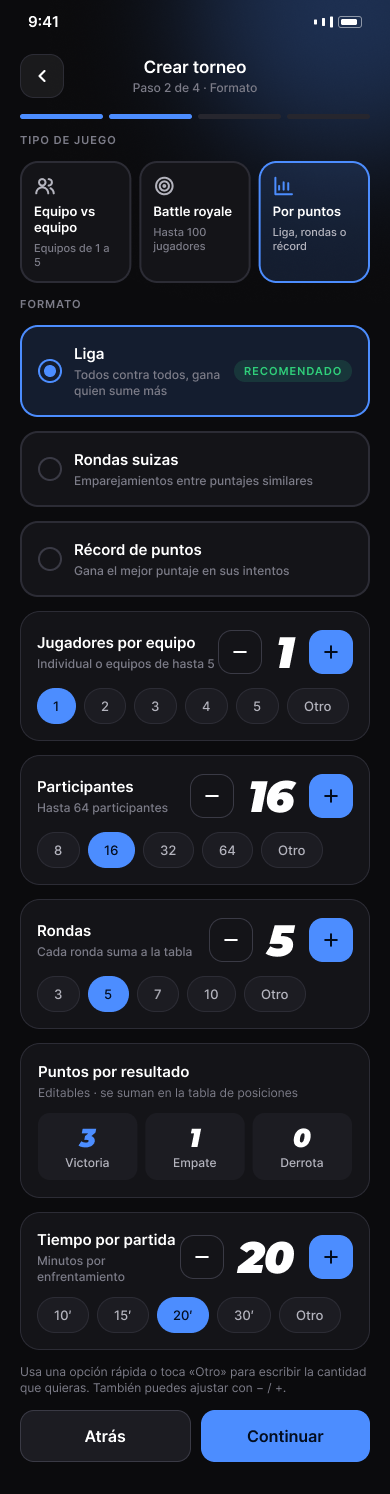
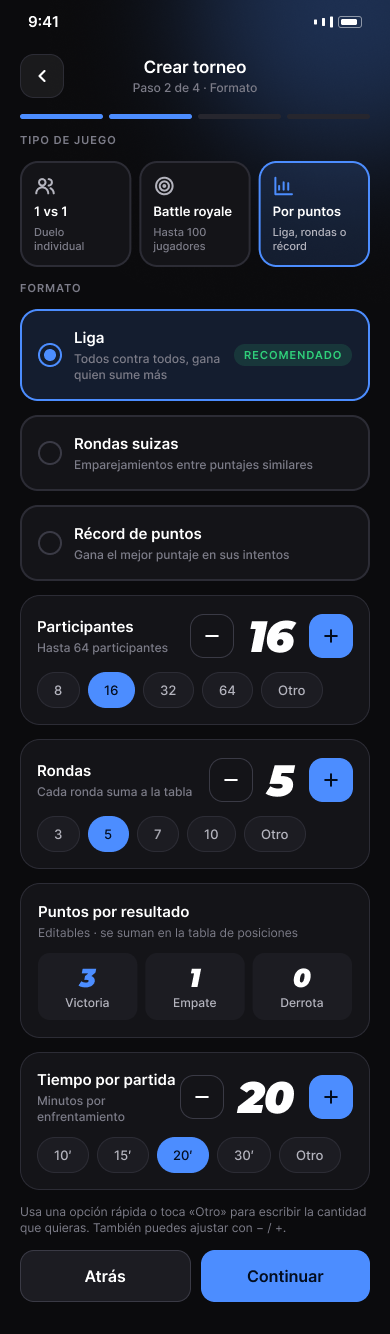
Reescribe la spec de organizador-panel-y-creacion con las pantallas nuevas
Pantallas re-exportadas sin equipos ni escuadras, tipo 1 vs 1 y premios en
texto libre. El organizador elige el tipo de torneo para cualquier juego y
el Nivel 1 llega a 32 jugadores o participantes en los tres tipos.

diff --git a/specs/organizador-panel-y-creacion/spec.md b/specs/organizador-panel-y-creacion/spec.md
@@ -8,7 +8,7 @@ Carpeta de pantallas: `design/flujos/organizador-panel-y-creacion/`
 
 **Para qué:** crear y publicar un torneo, y tener a mano todos los suyos.
 - **Panel (O01):** sus números (en curso, inscritos, finalizados), el acceso a «Crear un nuevo torneo» y su lista de torneos (Todos, En curso y Borradores).
-- **Crear torneo en 4 pasos (O02 a O05):** información, formato y cupos, fecha y reglas, y revisar y publicar. El paso 2 tiene una pantalla por tipo de juego (O03, O03b y O03c) y tres pantallas de cupos personalizados.
+- **Crear torneo en 4 pasos (O02 a O05):** información, formato y cupos, fecha y reglas, y revisar y publicar. El paso 2 tiene una pantalla por tipo de torneo (O03, O03b y O03c) y tres pantallas de cantidades personalizadas.
 - **Torneo publicado (O06):** confirmación, enlace para compartir y accesos a gestionar o a ver el torneo como jugador.
 
 **Por qué importa:** sin torneos publicados no hay nada que el jugador encuentre: es la oferta del producto. La promesa es «4 pasos · menos de 5 minutos. Publícalo y compártelo», es decir, bajar la barrera para organizar. Las entrevistas dicen que más control significa más torneos.
@@ -16,14 +16,14 @@ Carpeta de pantallas: `design/flujos/organizador-panel-y-creacion/`
 **Resultado:** el torneo queda publicado en Explorar, con un enlace para compartir, listo para recibir inscripciones.
 
 **Alcance del MVP:**
-- La inscripción es gratuita.
-- El **tipo de juego es fijo por juego**: el organizador elige el juego y el tipo (Equipo vs equipo, Battle royale o Por puntos) viene determinado.
-- El **Nivel 1 puede crear torneos de hasta 32 cupos**. Subir de nivel desbloquea 64 y más.
+- La inscripción es gratuita y los torneos son **solo de jugadores individuales**: no hay equipos ni escuadras.
+- **El organizador elige el tipo de torneo** (1 vs 1, Battle royale o Por puntos) para cualquier juego.
+- El **Nivel 1 puede crear torneos de hasta 32** jugadores o participantes, en los tres tipos. Subir de nivel desbloquea 64 y más.
 - Para publicar hay que completar los 4 pasos.
 - Al abrir un borrador, el asistente retoma en el paso donde se quedó.
-- «Premios» es un texto libre. Los puntos de ranking los calcula el producto (no se escriben).
+- «Premios» es un texto libre. Los puntos de ranking los calcula el producto y no se escriben.
 
-**Caso de ejemplo para el paso a paso:** StreamerNova (Nivel 1) crea la **Copa Relámpago Bogotá** (EA FC 25, sábado 4 de octubre, 7:00 pm, gratis). Desde el panel toca «Empezar», recorre los 4 pasos, publica, comparte el enlace y va a gestionar.
+**Caso de ejemplo para el paso a paso:** StreamerNova (Nivel 1) crea la **Copa Relámpago Bogotá** (EA FC 25, 1 vs 1, eliminación directa, sábado 4 de octubre, 7:00 pm, gratis). Desde el panel toca «Empezar», recorre los 4 pasos, publica, comparte el enlace y va a gestionar.
 
 ## Pantallas
 
@@ -31,7 +31,7 @@ Carpeta de pantallas: `design/flujos/organizador-panel-y-creacion/`
 |---|---|---|
 | O01 | Panel del organizador | Pestaña raíz del organizador. Números, acceso a crear y lista de torneos. |
 | O02 | Crear · Información | Paso 1 de 4: portada, juego, nombre y descripción. |
-| O03 | Crear · Formato · Equipo vs equipo | Paso 2 de 4 para el tipo Equipo vs equipo. |
+| O03 | Crear · Formato (1 vs 1) | Paso 2 de 4 para el tipo 1 vs 1. En el archivo se llama «O03 · Crear · Formato · Equipo vs equipo». |
 | O03b | Crear · Formato · Battle royale | Paso 2 de 4 para el tipo Battle royale. |
 | O03c | Crear · Formato · Por puntos | Paso 2 de 4 para el tipo Por puntos. |
 | EvE · O1b | Cupos personalizados | Variante de O03 con «Otro» elegido en los cupos. |
@@ -58,29 +58,27 @@ Carpeta de pantallas: `design/flujos/organizador-panel-y-creacion/`
 - Botón cerrar (X), título «Crear torneo» y subtítulo «Paso 1 de 4 · Información», con una barra de 4 pasos.
 - Zona punteada «Sube la portada» («Recomendado 1200×750 · JPG o PNG»).
 - Sección «Juego»: 6 tarjetas con portada (EA FC 25, Valorant, CS2, League of Legends, Fortnite y Rocket League); EA FC 25 está elegido, con un check.
-- Nota: «EA FC 25 es Equipo vs equipo. En el siguiente paso puedes cambiar el tipo: Equipo vs equipo, Battle royale o Por puntos.»
+- Nota: «EA FC 25 es 1 vs 1. En el siguiente paso puedes cambiar el tipo: 1 vs 1, Battle royale o Por puntos.»
 - Campo «Nombre del torneo» («Copa Relámpago Bogotá», contador «21/60 caracteres»).
 - Campo «Descripción» («Torneo 1v1 de FC 25 para la comunidad de Bogotá. Premios al top 3.», ayuda «Cuenta qué hace especial tu torneo»).
 - Botones «Continuar» y «Guardar borrador».
 
-**O03 · Crear · Formato · Equipo vs equipo**
+**O03 · Crear · Formato (1 vs 1)**
 - Barra superior con volver y «Crear torneo · Paso 2 de 4 · Formato».
-- «TIPO DE JUEGO»: tres tarjetas (Equipo vs equipo «Equipos de 1 a 5», Battle royale «Hasta 100 jugadores» y Por puntos «Liga, rondas o récord»); activa la de Equipo vs equipo.
+- «TIPO DE JUEGO»: tres tarjetas: «1 vs 1» («Duelo individual»), «Battle royale» («Hasta 100 jugadores») y «Por puntos» («Liga, rondas o récord»); activa la de 1 vs 1.
 - «FORMATO»: tres opciones: «Eliminación directa» (RECOMENDADO, «Quien pierde queda fuera»), «Doble eliminación» («Segunda oportunidad por llave inferior») y «Fase de grupos» («Todos contra todos y luego llaves»).
-- «Jugadores por equipo» (contador con − y +, valor 3, «3 vs 3 · de 1 a 5 por equipo») y chips 1, 2, 3, 4, 5 y Otro.
-- «Cupos» («Equipos · potencias de 2», valor 16) y chips 8, 16, 32, 64 y Otro.
+- «Cupos» («Jugadores · potencias de 2», valor 16, contador con − y +) y chips 8, 16, 32, 64 y Otro.
 - «Tiempo por partida» («Minutos · el reloj corre al iniciar», valor 30) y chips 15', 30', 45', 60' y Otro.
 - Nota: «Usa una opción rápida o toca «Otro» para escribir la cantidad que quieras. También puedes ajustar con − / +.»
 - Botones «Atrás» y «Continuar».
 
 **EvE · O1b · Cupos personalizados**
 - Igual que O03, con «Otro» elegido en los cupos (valor 24).
-- Aparece el campo «Cantidad personalizada» («24 equipos») y la ayuda «Entre 2 y 128. Si no es potencia de 2, se juega una ronda previa para completar el cuadro.»
+- Aparece el campo «Cantidad personalizada» («24 jugadores») y la ayuda «Entre 2 y 128. Si no es potencia de 2, se juega una ronda previa para completar el cuadro.»
 
 **O03b · Crear · Formato · Battle royale**
 - Misma estructura de O03, con Battle royale como tipo activo.
 - «FORMATO»: «Partidas acumuladas» (RECOMENDADO, «Los puntos se suman entre varias partidas»), «Clasificación por lobbies» («Los mejores de cada lobby pasan a la final») y «Partida única» («Una sola partida define al campeón»).
-- «Jugadores por escuadra» («Solo, dúo, trío o escuadra», valor 4) y chips Solo, Dúo, Trío, Escuadra y Otro.
 - «Jugadores» («Máximo 100 jugadores por partida», valor 100) y chips 25, 50, 75, 100 y Otro.
 - «Número de partidas» («Los puntos se suman entre partidas», valor 3) y chips 1, 3, 5, 6 y Otro.
 - «Tiempo por partida» («Minutos · la zona cierra al final», valor 25) y chips 15', 20', 25', 30' y Otro.
@@ -93,7 +91,6 @@ Carpeta de pantallas: `design/flujos/organizador-panel-y-creacion/`
 **O03c · Crear · Formato · Por puntos**
 - Misma estructura de O03, con Por puntos como tipo activo.
 - «FORMATO»: «Liga» (RECOMENDADO, «Todos contra todos, gana quien sume más»), «Rondas suizas» («Emparejamientos entre puntajes similares») y «Récord de puntos» («Gana el mejor puntaje en sus intentos»).
-- «Jugadores por equipo» («Individual o equipos de hasta 5», valor 1) y chips 1, 2, 3, 4, 5 y Otro.
 - «Participantes» («Hasta 64 participantes», valor 16) y chips 8, 16, 32, 64 y Otro.
 - «Rondas» («Cada ronda suma a la tabla», valor 5) y chips 3, 5, 7, 10 y Otro.
 - «Puntos por resultado» («Editables · se suman en la tabla de posiciones»): Victoria 3, Empate 1 y Derrota 0.
@@ -109,13 +106,13 @@ Carpeta de pantallas: `design/flujos/organizador-panel-y-creacion/`
 - «Cierre de inscripciones» («Sáb 4 Oct · 6:00 pm») con la ayuda «Después de esta hora nadie más puede inscribirse.»
 - Interruptor «Check-in obligatorio» («30 min antes del inicio», activo).
 - «REGLAS»: tres casillas: «Reporte con captura del marcador» (marcada), «Desconexión: se repite el partido una vez» (marcada) y «Permitir suplentes» (sin marcar).
-- Campo «Premios (opcional)» («Trofeo + 300 pts de ranking»).
+- Campo «Premios (opcional)» («Trofeo para el campeón») con la ayuda «Los puntos de ranking se calculan solos según el puesto.»
 - Botones «Atrás» y «Continuar».
 
 **O05 · Crear · Revisión y publicar**
 - Barra superior con volver y «Revisar y publicar · Paso 4 de 4», y el texto «Así lo verán los jugadores en Explorar.»
 - Vista previa de la tarjeta del torneo: etiqueta ABIERTO, nombre «COPA RELÁMPAGO BOGOTÁ», fecha, «24/32 cupos» y un botón «Inscribirme».
-- Resumen con un lápiz de edición en cada bloque: «Formato · Equipo vs equipo · Eliminación directa», «Cupos · 16 equipos · 3 vs 3», «Fecha · Sáb 4 Oct · 7:00 pm», «Tiempo por partida · 30 minutos» y «Check-in · 30 min antes».
+- Resumen con un lápiz de edición en cada bloque: «Formato · 1 vs 1 · Eliminación directa», «Cupos · 16 jugadores · 1 vs 1», «Fecha · Sáb 4 Oct · 7:00 pm», «Tiempo por partida · 30 minutos» y «Check-in · 30 min antes».
 - Aviso verde «Inscripción gratuita»: «Se publicará en Explorar y podrás compartir el enlace.»
 - Botones «Publicar torneo» (principal) y «Guardar como borrador».
 
@@ -139,18 +136,18 @@ Caso: StreamerNova crea la Copa Relámpago Bogotá.
 ### B. Paso 1: información
 
 5. En **Crear · Información (O02)**, sube la portada (recomendado 1200×750, JPG o PNG).
-6. Elige el juego (EA FC 25). El juego determina el tipo de torneo: el tipo es fijo por juego y el organizador no lo cambia.
+6. Elige el juego (EA FC 25). El juego no fija el tipo de torneo: el organizador lo elige en el paso 2.
 7. Escribe el nombre (máximo 60 caracteres) y la descripción.
 8. Toca «Continuar», o «Guardar borrador». Con la X cierra el asistente: se abre un diálogo que pregunta si quiere guardar el borrador o descartar los cambios (el diálogo falta en Figma).
 
 ### C. Paso 2: formato y cupos
 
-9. Según el tipo del juego, se abre una de tres pantallas de formato (con la barra de 4 pasos en el paso 2):
-   - **Equipo vs equipo (O03):** elige el formato (en el MVP solo entra la eliminación directa), los jugadores por equipo (de 1 a 5), los cupos (8, 16, 32 o 64, o «Otro») y el tiempo por partida.
-   - **Battle royale (O03b):** elige el formato (partidas acumuladas, clasificación por lobbies o partida única), los jugadores por escuadra (en el MVP se juega Solo), los jugadores (hasta 100), el número de partidas, el tiempo por partida y si da puntos por eliminación.
+9. En el paso 2 elige el **tipo de torneo** entre las tres tarjetas (1 vs 1, Battle royale o Por puntos). Según el tipo, la pantalla muestra una de tres versiones (con la barra de 4 pasos en el paso 2):
+   - **1 vs 1 (O03):** elige el formato (en el MVP solo entra la eliminación directa), los cupos (8, 16, 32 o 64, o «Otro») y el tiempo por partida.
+   - **Battle royale (O03b):** elige el formato (partidas acumuladas, clasificación por lobbies o partida única), los jugadores (hasta 100), el número de partidas, el tiempo por partida y si da puntos por eliminación.
    - **Por puntos (O03c):** elige el formato (liga, rondas suizas o récord de puntos), los participantes (hasta 64, o «Otro»), las rondas, los puntos por resultado (victoria, empate y derrota) y el tiempo por partida.
 10. Con los chips elige una cantidad rápida, o con el contador − / +. Con **«Otro»** aparece un campo de cantidad personalizada (EvE · O1b, BR · O1b y PTS · O1b), con su rango.
-11. El Nivel 1 puede elegir hasta 32 cupos. Las opciones por encima aparecen bloqueadas hasta subir de nivel (ese estado falta en Figma).
+11. El Nivel 1 puede elegir hasta 32 jugadores o participantes, en los tres tipos. Las opciones por encima aparecen bloqueadas hasta subir de nivel (ese estado falta en Figma).
 12. Toca «Continuar» (o «Atrás» para volver al paso 1).
 
 ### D. Paso 3: fecha y reglas
@@ -158,7 +155,7 @@ Caso: StreamerNova crea la Copa Relámpago Bogotá.
 13. En **Crear · Fecha y reglas (O04)** elige la fecha y la hora (Sáb 4 Oct, 7:00 pm) y el cierre de inscripciones (6:00 pm). Después de esa hora nadie más puede inscribirse.
 14. Deja activo el check-in obligatorio (30 min antes del inicio).
 15. Elige las reglas: reporte con captura del marcador, desconexión (se repite el partido una vez) y si se permiten suplentes.
-16. Escribe el premio, que es un texto libre (por ejemplo, «Trofeo»). Los puntos de ranking los calcula el producto y no se escriben.
+16. Escribe el premio, que es un texto libre (por ejemplo, «Trofeo para el campeón»). Los puntos de ranking se calculan solos según el puesto y no se escriben.
 17. Toca «Continuar» o «Atrás».
 
 ### E. Paso 4: revisar y publicar
@@ -203,9 +200,10 @@ Caso: StreamerNova crea la Copa Relámpago Bogotá.
 ### De los campos del paso 2
 | Estado | Qué muestra |
 |---|---|
+| Tipo elegido | Tarjeta del tipo resaltada (1 vs 1, Battle royale o Por puntos). |
 | Opción rápida elegida | Chip activo. |
 | «Otro» elegido | Chip «Otro» activo y un campo «Cantidad personalizada», con su rango. |
-| Cupos bloqueados por nivel | Las opciones por encima de 32 cupos se ven bloqueadas para el Nivel 1 (falta en Figma). |
+| Cantidad bloqueada por nivel | Las opciones por encima de 32 se ven bloqueadas para el Nivel 1 (falta en Figma). |
 
 ### De la publicación
 | Estado | Qué muestra |
@@ -215,7 +213,7 @@ Caso: StreamerNova crea la Copa Relámpago Bogotá.
 | Borrador | «Guardar borrador» / «Guardar como borrador» guardan sin publicar. |
 
 ### Estados que las pantallas no muestran
-- Errores de validación en cada paso (campo vacío, cupo bloqueado, fecha en el pasado, cierre de inscripciones posterior al inicio).
+- Errores de validación en cada paso (campo vacío, cantidad bloqueada, fecha en el pasado, cierre de inscripciones posterior al inicio).
 - Botón «Continuar» deshabilitado mientras falte un dato.
 - Diálogo al cerrar con la X, y diálogo al borrar un borrador.
 - Las pestañas En curso y Borradores del panel, y el panel sin torneos (ver «estado-vacio-sin-torneos», V5).
@@ -229,7 +227,8 @@ Caso: StreamerNova crea la Copa Relámpago Bogotá.
 - **Ir a gestionar:** abre el Resumen del torneo (flujo «organizador-gestion-del-torneo», O07), con el check-in, los inscritos y los anuncios.
 - **Ver como jugador:** abre el Detalle del torneo (J09), como lo ve un jugador.
 - **Borrador:** queda en la pestaña Borradores del panel, sin aparecer en Explorar, hasta que se retome y se publique.
-- **Nivel:** el nivel del organizador determina cuántos cupos puede crear (el Nivel 1, hasta 32). Sube por torneos finalizados con buena valoración (flujo «organizador-cierre-datos-y-perfil»).
+- **Nivel:** el nivel del organizador determina cuántos jugadores puede reunir (el Nivel 1, hasta 32). Sube por torneos finalizados con buena valoración (flujo «organizador-cierre-datos-y-perfil»).
+- **Puntos de ranking:** al cerrar el torneo se calculan con la regla única 100 × (N − puesto + 1) / N (flujos de los brackets).
 - **Panel:** el torneo publicado aparece en «Mis torneos» como ABIERTO y suma a las cifras del panel.
 
 ## Datos que usa
@@ -242,16 +241,17 @@ Datos que esta spec lee o escribe, como puente hacia Supabase. Los nombres son p
 - Nombre, avatar, modo y nivel.
 - Torneos: en curso, finalizados e inscritos totales.
 - Lista de torneos (juego, nombre, estado, fecha, cupos e inscritos).
-- Límite de cupos según su nivel (Nivel 1: hasta 32).
+- Límite de jugadores según su nivel (Nivel 1: hasta 32).
 
 **Catálogo de juegos**
-- Nombre, portada y el tipo de torneo de cada juego (Equipo vs equipo, Battle royale o Por puntos).
+- Nombre y portada de cada juego.
 
 ### Se escribe
 
 **Torneo**
 - Portada, juego, nombre (hasta 60 caracteres) y descripción.
-- Tipo, formato y cupos: jugadores por equipo, equipos o participantes, jugadores por escuadra, partidas, rondas y puntos por resultado (en Por puntos), y puntos por eliminación (en Battle royale).
+- Tipo (1 vs 1, Battle royale o Por puntos) y formato.
+- Cupos o jugadores o participantes, partidas, rondas, puntos por resultado (en Por puntos) y puntos por eliminación (en Battle royale).
 - Tiempo por partida.
 - Fecha, hora y cierre de inscripciones.
 - Check-in obligatorio (30 min antes del inicio).
@@ -267,17 +267,16 @@ Datos que esta spec lee o escribe, como puente hacia Supabase. Los nombres son p
 
 ### Reglas que dicen las pantallas
 - El asistente tiene 4 pasos: información, formato y cupos, fecha y reglas, revisar y publicar.
-- El tipo de torneo es fijo por juego.
+- El organizador elige el tipo de torneo (1 vs 1, Battle royale o Por puntos) para cualquier juego.
 - Un torneo se publica solo con los 4 pasos completos.
 - Al cerrar el asistente con la X se pregunta si guardar un borrador o descartar los cambios.
 - Al abrir un borrador, el asistente retoma en el paso donde se quedó.
-- El Nivel 1 puede crear torneos de hasta 32 cupos.
-- Los cupos de Equipo vs equipo son potencias de 2; si no lo son, se juega una ronda previa.
-- Equipo vs equipo admite de 2 a 128 equipos, Battle royale de 2 a 100 jugadores por partida y Por puntos de 2 a 128 participantes (con un número impar, uno descansa cada ronda).
-- Equipo vs equipo admite de 1 a 5 jugadores por equipo.
+- El Nivel 1 puede crear torneos de hasta 32 jugadores o participantes, en los tres tipos.
+- Los cupos de 1 vs 1 son potencias de 2; si no lo son, se juega una ronda previa para completar el cuadro.
+- 1 vs 1 admite de 2 a 128 jugadores, Battle royale de 2 a 100 jugadores por partida y Por puntos de 2 a 128 participantes (con un número impar, uno descansa cada ronda).
 - Después de la hora de cierre de las inscripciones nadie más puede inscribirse.
 - El check-in es obligatorio, y empieza 30 min antes del inicio.
-- Los puntos de ranking los calcula el producto y no se escriben. «Premios» es un texto libre.
+- Los puntos de ranking los calcula el producto («se calculan solos según el puesto»). «Premios» es un texto libre.
 - La inscripción es gratuita.
 
 ## Fuera de alcance
@@ -285,56 +284,50 @@ Datos que esta spec lee o escribe, como puente hacia Supabase. Los nombres son p
 Esta spec no cubre lo siguiente, que tiene su propia spec:
 
 - **Gestionar el torneo publicado** (O07 a O14), a donde lleva «Ir a gestionar», en «organizador-gestion-del-torneo».
-- **Los brackets y el cierre** (O12, O13, O15 y las vistas de las otras modalidades), en «eliminacion-directa-bracket», «battle-royale-bracket» y «bracket-por-puntos».
+- **Los brackets y el cierre** (O12, O13, O15 y las vistas de las otras modalidades), en «1v1-bracket», «battle-royale-bracket» y «bracket-por-puntos».
 - **Perfil, estadísticas y cancelar** (O16, O17, O18), y el nivel del organizador, en «organizador-cierre-datos-y-perfil».
-- **Lo que ve el jugador:** Detalle del torneo (J09) y Explorar (J07), en «jugador-descubrir-e-inscribirse».
+- **Lo que ve el jugador:** el Detalle del torneo (J09) y Explorar (J07), en «jugador-descubrir-e-inscribirse».
 - **Panel vacío** (V5), en «estado-vacio-sin-torneos».
 - **Registro y modo Organizador** (J03 y J23), en «acceso-y-registro» y «jugador-progreso-y-cuenta».
 
 No entran al MVP, aunque están en el diseño:
-- **Doble eliminación** y **fase de grupos** (opciones de formato de Equipo vs equipo).
-- **Cambiar el tipo de torneo** en el paso 2, que es fijo por juego.
+- **Doble eliminación** y **fase de grupos** (opciones de formato de 1 vs 1).
 - **Cobro de inscripciones:** el UI kit describe un paso con precio y pasarela, y el MVP es gratuito.
 
 ## Preguntas abiertas
 
 **Ajustes pendientes en Figma (ya decididos por el equipo)**
 
-1. **Tipo de juego fijo.** El tipo es fijo por juego y el organizador no lo cambia en el MVP. El paso 2 muestra las tres opciones como si se pudiera elegir, y O02 dice «En el siguiente paso puedes cambiar el tipo». Hay que quitar o deshabilitar el selector y el texto.
-2. **Premios.** Se decidió que «Premios» es un texto libre y que los puntos de ranking son automáticos. Hay que quitar «300 pts de ranking» del ejemplo de O04. Además el campo dice «(opcional)», mientras que para publicar hay que completar los 4 pasos: hay que alinear una cosa con la otra.
-3. **Cerrar con la X.** Se decidió que se pregunta si guardar un borrador o descartar los cambios. Falta ese diálogo en Figma.
-4. **Cupos bloqueados por nivel.** Se decidió que el Nivel 1 llega a 32 cupos. Falta el estado bloqueado de las opciones de 64 o más, el texto de qué hace falta para desbloquearlas, y alinear el texto de O17 («Desbloquea torneos de 64 cupos»).
-5. **Tolerancia de check-in.** En «incidencias-de-partido» se decidió que el organizador define la tolerancia al crear el torneo (10 minutos por defecto). No existe ese campo en el paso 3 (O04).
-6. **Formatos y opciones que no entran.**
-   - Doble eliminación y fase de grupos: hay que quitarlos o deshabilitarlos en O03.
-   - Battle royale: en el MVP se juega Solo, y O03b ofrece dúo, trío y escuadra.
-   - Por puntos: se juega individual, y O03c ofrece equipos de hasta 5.
-   - Hay que quitar o deshabilitar esas opciones.
-7. **Datos de ejemplo que no cuadran.**
-   - La Copa Relámpago es «16 equipos · 3 vs 3» en O05, tiene «24/32 cupos» en la vista previa, «32 cupos» en O06 y una descripción que dice «Torneo 1v1».
+1. **Formatos que no entran.** La doble eliminación y la fase de grupos siguen en O03 y en EvE · O1b, pero no entran al MVP. Hay que quitarlos o deshabilitarlos.
+2. **Cerrar con la X.** Se decidió que se pregunta si guardar un borrador o descartar los cambios. Falta ese diálogo en Figma.
+3. **Cantidades bloqueadas por nivel.** Se decidió que el Nivel 1 llega a 32 en los tres tipos. Falta el estado bloqueado de las opciones mayores, y hay que alinear los valores que muestran las pantallas: Battle royale trae 100 jugadores por defecto, y los chips de 64 en 1 vs 1 y en Por puntos quedarían bloqueados. También hay que alinear el texto de O17 («Desbloquea torneos de 64 cupos»).
+4. **Tolerancia de check-in.** En «incidencias-de-partido» se decidió que el organizador define la tolerancia al crear el torneo (10 minutos por defecto). No existe ese campo en el paso 3 (O04).
+5. **Premios.** El campo dice «(opcional)», pero para publicar hay que completar los 4 pasos. Hay que alinear una cosa con la otra.
+6. **Datos de ejemplo que no cuadran.**
+   - O05 muestra «16 jugadores» en el resumen y «24/32 cupos» en la vista previa de un torneo nuevo, y O06 dice «llenar los 32 cupos».
    - «Grieta Andina» es un BORRADOR con 9/16 inscritos, y los jugadores ya la ven como abierta en Inicio.
    - El panel dice «2 En curso» y la lista muestra uno; O17 dice 7 torneos y O01 dice 7 finalizados.
-8. **Resumen de la revisión.** O05 no resume el nombre, la portada, el juego, las reglas, el cierre de inscripciones ni los premios, y no tiene lápiz para esos bloques. Además la vista previa muestra 24/32 inscritos en un torneo nuevo.
-9. **Reglas.** «Reporte con captura del marcador» (marcada, es decir, obligatoria) contradice a J17, donde la captura es «Opcional». «Desconexión: se repite el partido una vez» y «Permitir suplentes» no tienen pantallas de cómo se aplican.
+7. **Resumen de la revisión.** O05 no resume el nombre, la portada, el juego, el tipo, las reglas, el cierre de inscripciones ni los premios, y no tiene lápiz para esos bloques.
+8. **Nombre del archivo de O03.** El PNG se sigue llamando «O03 · Crear · Formato · Equipo vs equipo», aunque la pantalla ya dice «1 vs 1». Hay que renombrar el frame y re-exportar.
 
 **Pendientes de definir**
 
-10. **Tipo por juego.** No se ve qué tipo corresponde a cada juego (por ejemplo, EA FC 25 es Equipo vs equipo). La pantalla muestra 6 juegos y el UI kit habla de 24.
-11. **Qué cuenta como «completar».** Para publicar hay que completar los 4 pasos, pero no se ve qué es obligatorio en cada uno: ¿se pueden dejar todas las reglas desmarcadas? ¿Y los premios, que dicen «(opcional)»? Tampoco se ven las validaciones (fecha en el pasado, cierre de inscripciones posterior al inicio, nombre repetido) ni el estado del botón «Continuar».
-12. **Borradores.** Falta cuántos puede tener un organizador, cómo se borra uno y cómo se ve en el panel un borrador copiado de otro torneo (que tiene todos los datos pero se abre en el paso donde se quedó). No se ve qué pasa con un borrador cuya fecha ya pasó.
-13. **Panel.** Las pestañas En curso y Borradores no están dibujadas, ni el orden de la lista, ni el destino de «Ver todo» y de tocar una tarjeta (¿Resumen del torneo, O07, o el asistente si es un borrador?).
-14. **Límite de cupos por nivel.** Falta definir cuánto desbloquea cada nivel, y cómo se aplica el límite de 32 a Battle royale (hasta 100 jugadores) y a Por puntos (hasta 64 participantes), que no miden cupos de equipos.
-15. **Cantidades.** Por puntos dice «Hasta 64 participantes» y su cantidad personalizada dice «Entre 2 y 128». No se ve el mínimo ni el máximo de cada chip, ni cómo se avisa al pasarse.
+9. **Reglas sin equipos.** «Permitir suplentes» no tiene sentido sin equipos. ¿Se quita? Además, «Reporte con captura del marcador» (marcada, es decir, obligatoria) contradice a J17, donde la captura es «Opcional», y «Desconexión: se repite el partido una vez» no tiene una pantalla de cómo se aplica.
+10. **Qué cuenta como «completar».** Para publicar hay que completar los 4 pasos, pero no se ve qué es obligatorio en cada uno: ¿se pueden dejar todas las reglas desmarcadas? ¿Y los premios, que dicen «(opcional)»? Tampoco se ven las validaciones (fecha en el pasado, cierre de inscripciones posterior al inicio, nombre repetido) ni el estado del botón «Continuar».
+11. **Borradores.** Falta cuántos puede tener un organizador, cómo se borra uno y cómo se ve en el panel un borrador copiado de otro torneo (que tiene todos los datos pero se abre en el paso donde se quedó). No se ve qué pasa con un borrador cuya fecha ya pasó.
+12. **Panel.** Las pestañas En curso y Borradores no están dibujadas, ni el orden de la lista, ni el destino de «Ver todo» y de tocar una tarjeta (¿Resumen del torneo, O07, o el asistente si es un borrador?).
+13. **Límites por nivel.** Falta definir cuánto desbloquea cada nivel.
+14. **Cantidades.** Por puntos dice «Hasta 64 participantes» y su cantidad personalizada dice «Entre 2 y 128». No se ve el mínimo de cada tipo ni cómo se avisa al pasarse.
+15. **Ronda previa.** En 1 vs 1, un número de jugadores que no es potencia de 2 se completa con una ronda previa. No hay pantalla de cómo se ve esa ronda ni de a quién le toca jugarla.
 16. **Enlace.** El enlace corto sale del nombre del torneo (lt.gg/copa-relampago). ¿Se puede editar? ¿Qué pasa si el nombre ya existe? ¿Qué muestra «Compartir enlace» (hoja del sistema)?
-17. **Publicar.** ¿El torneo aparece de inmediato en Explorar? ¿Se puede despublicar o editar la portada después? Se decidió que solo se editan la fecha y las reglas. ¿Los seguidores del organizador reciben un aviso?
+17. **Publicar.** ¿El torneo aparece de inmediato en Explorar? ¿Se puede despublicar? Se decidió que, después de publicar, solo se editan la fecha y las reglas. ¿Los seguidores del organizador reciben un aviso?
 18. **Torneo destacado.** El Nivel 2 desbloquea «destacados en Explorar». No se ve cómo el organizador marca un torneo como destacado.
-19. **Reglas de modalidad.** ¿«Desconexión» y «Suplentes» aplican a Battle royale y a Por puntos? Los suplentes tienen sentido solo con equipos.
-20. **Puntos del formato.** «Puntos por resultado» (Por puntos) y «Puntos por eliminación» (Battle royale) son puntos del torneo, distintos de los puntos de ranking. No se ve su rango (¿puede ser 5 por victoria?) ni cómo se explican al jugador.
-21. **Pasos del asistente.** El UI kit llama al paso 3 «Fecha, puntos y pago», con un calendario y chips de cierre (30 min, 1 h, 2 h, 1 día antes), y la pantalla tiene un campo de fecha y otro de cierre de inscripciones. Hay que alinear el kit.
-22. **Botón volver.** En los pasos 2 a 4 la flecha de volver regresa al paso anterior. No se ve si conserva los datos del paso.
+19. **Reglas por tipo.** ¿«Desconexión» y «Reporte con captura» aplican a Battle royale y a Por puntos? «Puntos por resultado» (Por puntos) y «Puntos por eliminación» (Battle royale) son puntos del torneo, distintos de los puntos de ranking. No se ve su rango ni cómo se explican al jugador.
+20. **Pasos del asistente.** El UI kit llama al paso 3 «Fecha, puntos y pago», con un calendario y chips de cierre (30 min, 1 h, 2 h, 1 día antes), y la pantalla tiene un campo de fecha y otro de cierre de inscripciones. Hay que alinear el kit.
+21. **Botón volver.** En los pasos 2 a 4 la flecha de volver regresa al paso anterior. No se ve si conserva los datos del paso.
 
 ## Cambios
 
 | Fecha | Cambio |
 |---|---|
-| 2026-10-27 | Versión inicial. Basada en las pantallas O01 a O06, O03b, O03c y los tres «Cupos personalizados», y en las respuestas del equipo: al abrir un borrador el asistente retoma en el paso donde se quedó, al cerrar con la X se pregunta si guardar un borrador o descartar, «Premios» es un texto libre y los puntos de ranking son automáticos, el Nivel 1 puede crear torneos de hasta 32 cupos, el tipo de juego es fijo por juego, y para publicar hay que completar los 4 pasos. |
+| 2026-10-29 | Versión inicial, escrita con las pantallas re-exportadas de Figma (sin equipos ni escuadras) y con las decisiones del equipo: al abrir un borrador el asistente retoma en el paso donde se quedó, al cerrar con la X se pregunta si guardar un borrador o descartar, «Premios» es un texto libre y los puntos de ranking son automáticos, el Nivel 1 puede crear torneos de hasta 32 jugadores o participantes en los tres tipos, el organizador elige el tipo de torneo para cualquier juego, y para publicar hay que completar los 4 pasos. |
